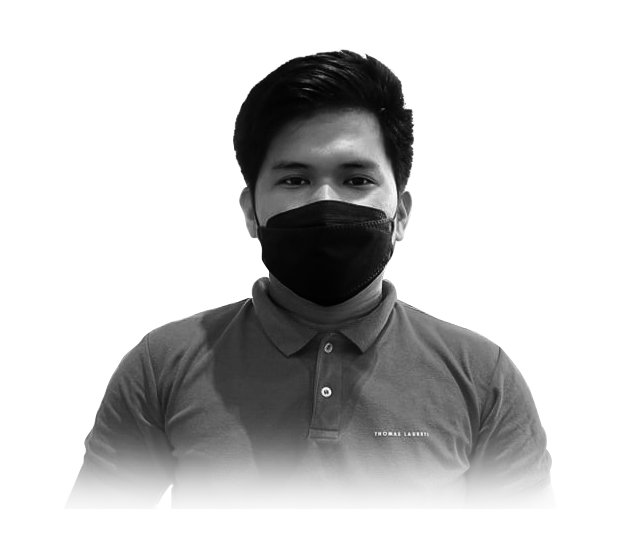
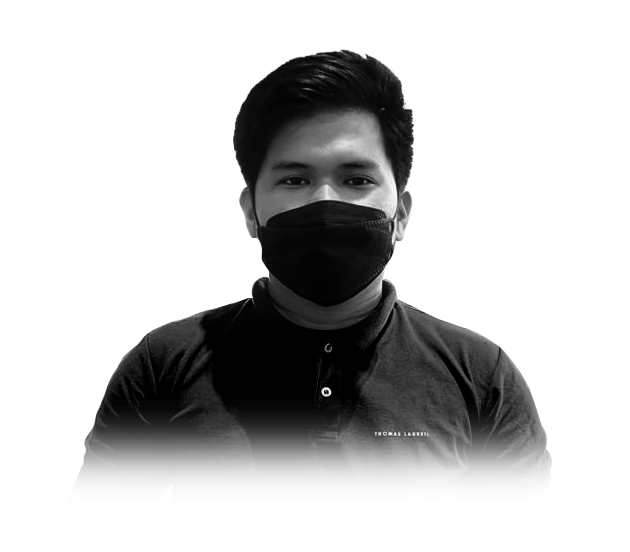
Added another image

Changed region(s): [[0.1206, 0.4928, 0.8746, 0.8931]]

diff --git a/src/App.js b/src/App.js
@@ -86,13 +86,13 @@ function App() {
             <div class="gap-8 items-center py-8 px-4 mx-auto max-w-screen-xl xl:gap-16 md:grid md:grid-cols-2 sm:py-16 lg:px-6">          
                 
                 
-                <div class="mt-4 md:mt-0">
+                <div className="mt-4 md:mt-0 flex justify-center">
                     <h2 class="mb-4 text-4xl tracking-tight font-extrabold text-gray-900 dark:text-green-400">John Ray D. Paulin</h2>
                     <p class="mb-6 font-light text-gray-500 md:text-lg dark:text-gray-400">Frontend Developer</p>
-                    <a href="#" class="inline-flex items-center text-white bg-primary-700 hover:bg-primary-800 focus:ring-4 focus:ring-primary-300 font-medium rounded-lg text-sm px-5 py-2.5 text-center dark:focus:ring-primary-900">
-                        Get started
-                        <svg class="ml-2 -mr-1 w-5 h-5" fill="currentColor" viewBox="0 0 20 20" xmlns="http://www.w3.org/2000/svg"><path fillRule="evenodd" d="M10.293 3.293a1 1 0 011.414 0l6 6a1 1 0 010 1.414l-6 6a1 1 0 01-1.414-1.414L14.586 11H3a1 1 0 110-2h11.586l-4.293-4.293a1 1 0 010-1.414z" clipRule="evenodd"></path></svg>
-                    </a>
+                    
+                </div>
+                <div className='mt-4 md:mt-0'>
+                        <img src='https://raw.githubusercontent.com/genmancoder/portfolio/staging/src/assets/dark.png' alt='profile' />
                 </div>
             </div>
             </section>

diff --git a/src/index.css b/src/index.css
@@ -28,7 +28,7 @@ body {
 }
 
 :root{
-  --color-bg: #1f1f38;
+  --color-bg: #0e0e11;
   --color-bg-variant: #2c2c6c;
   --color-primary: #4db5ff;
   --color-primary-variant: rgba(77,181,255, 0.4);
